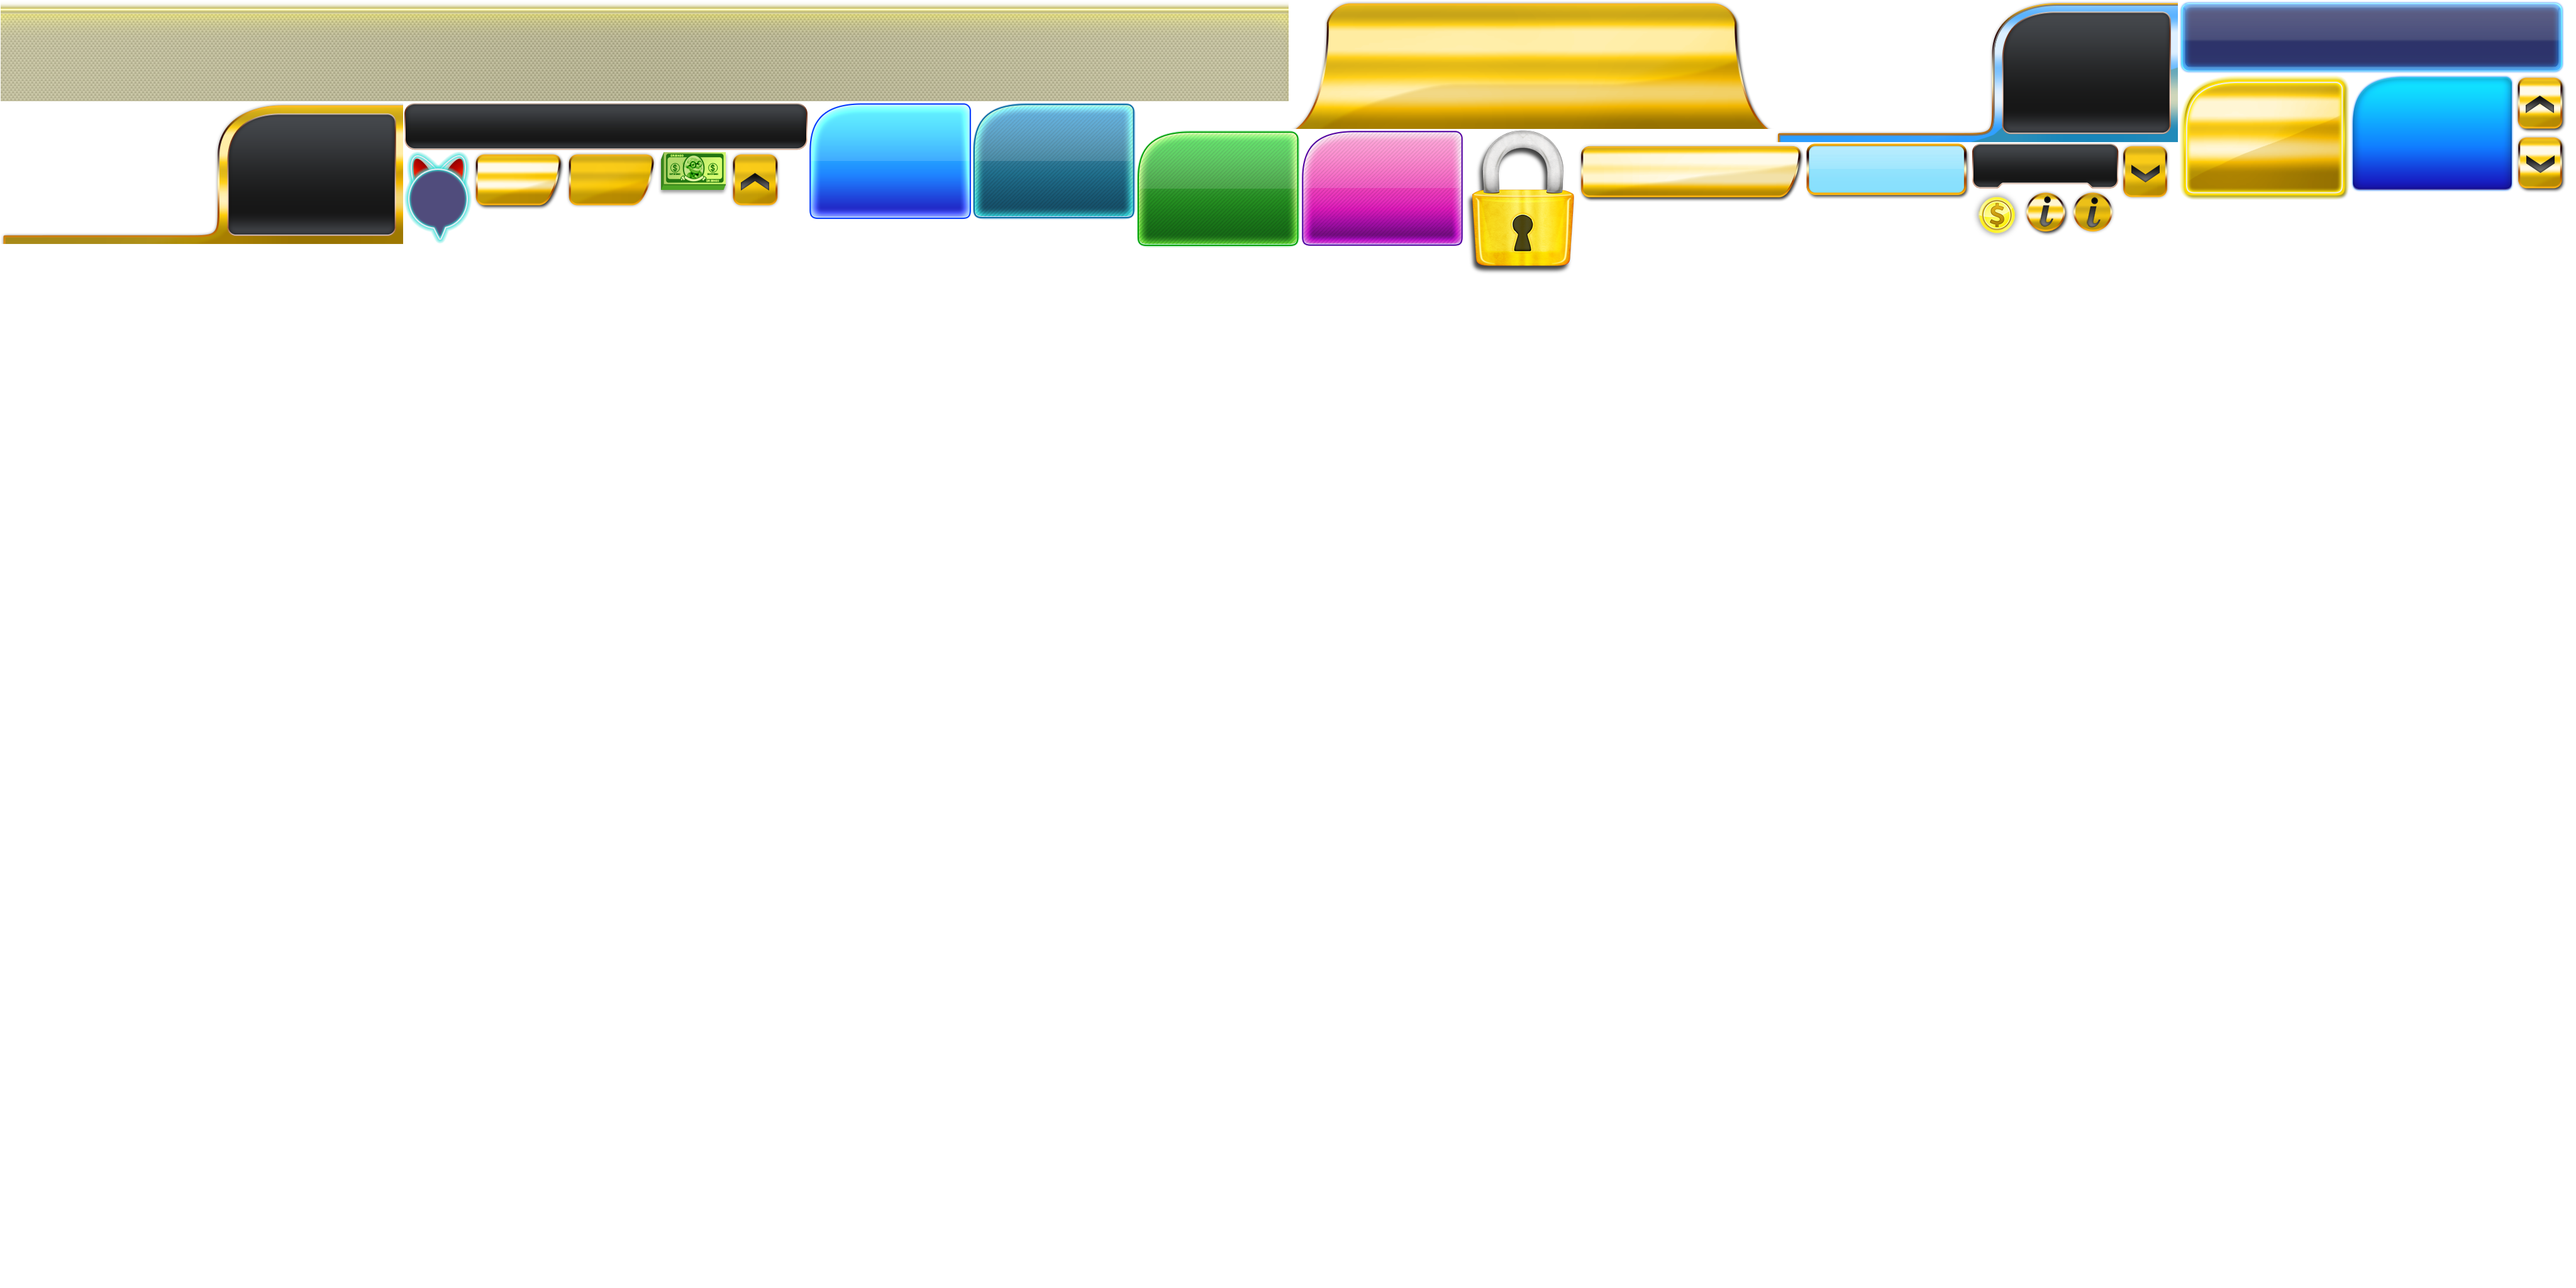
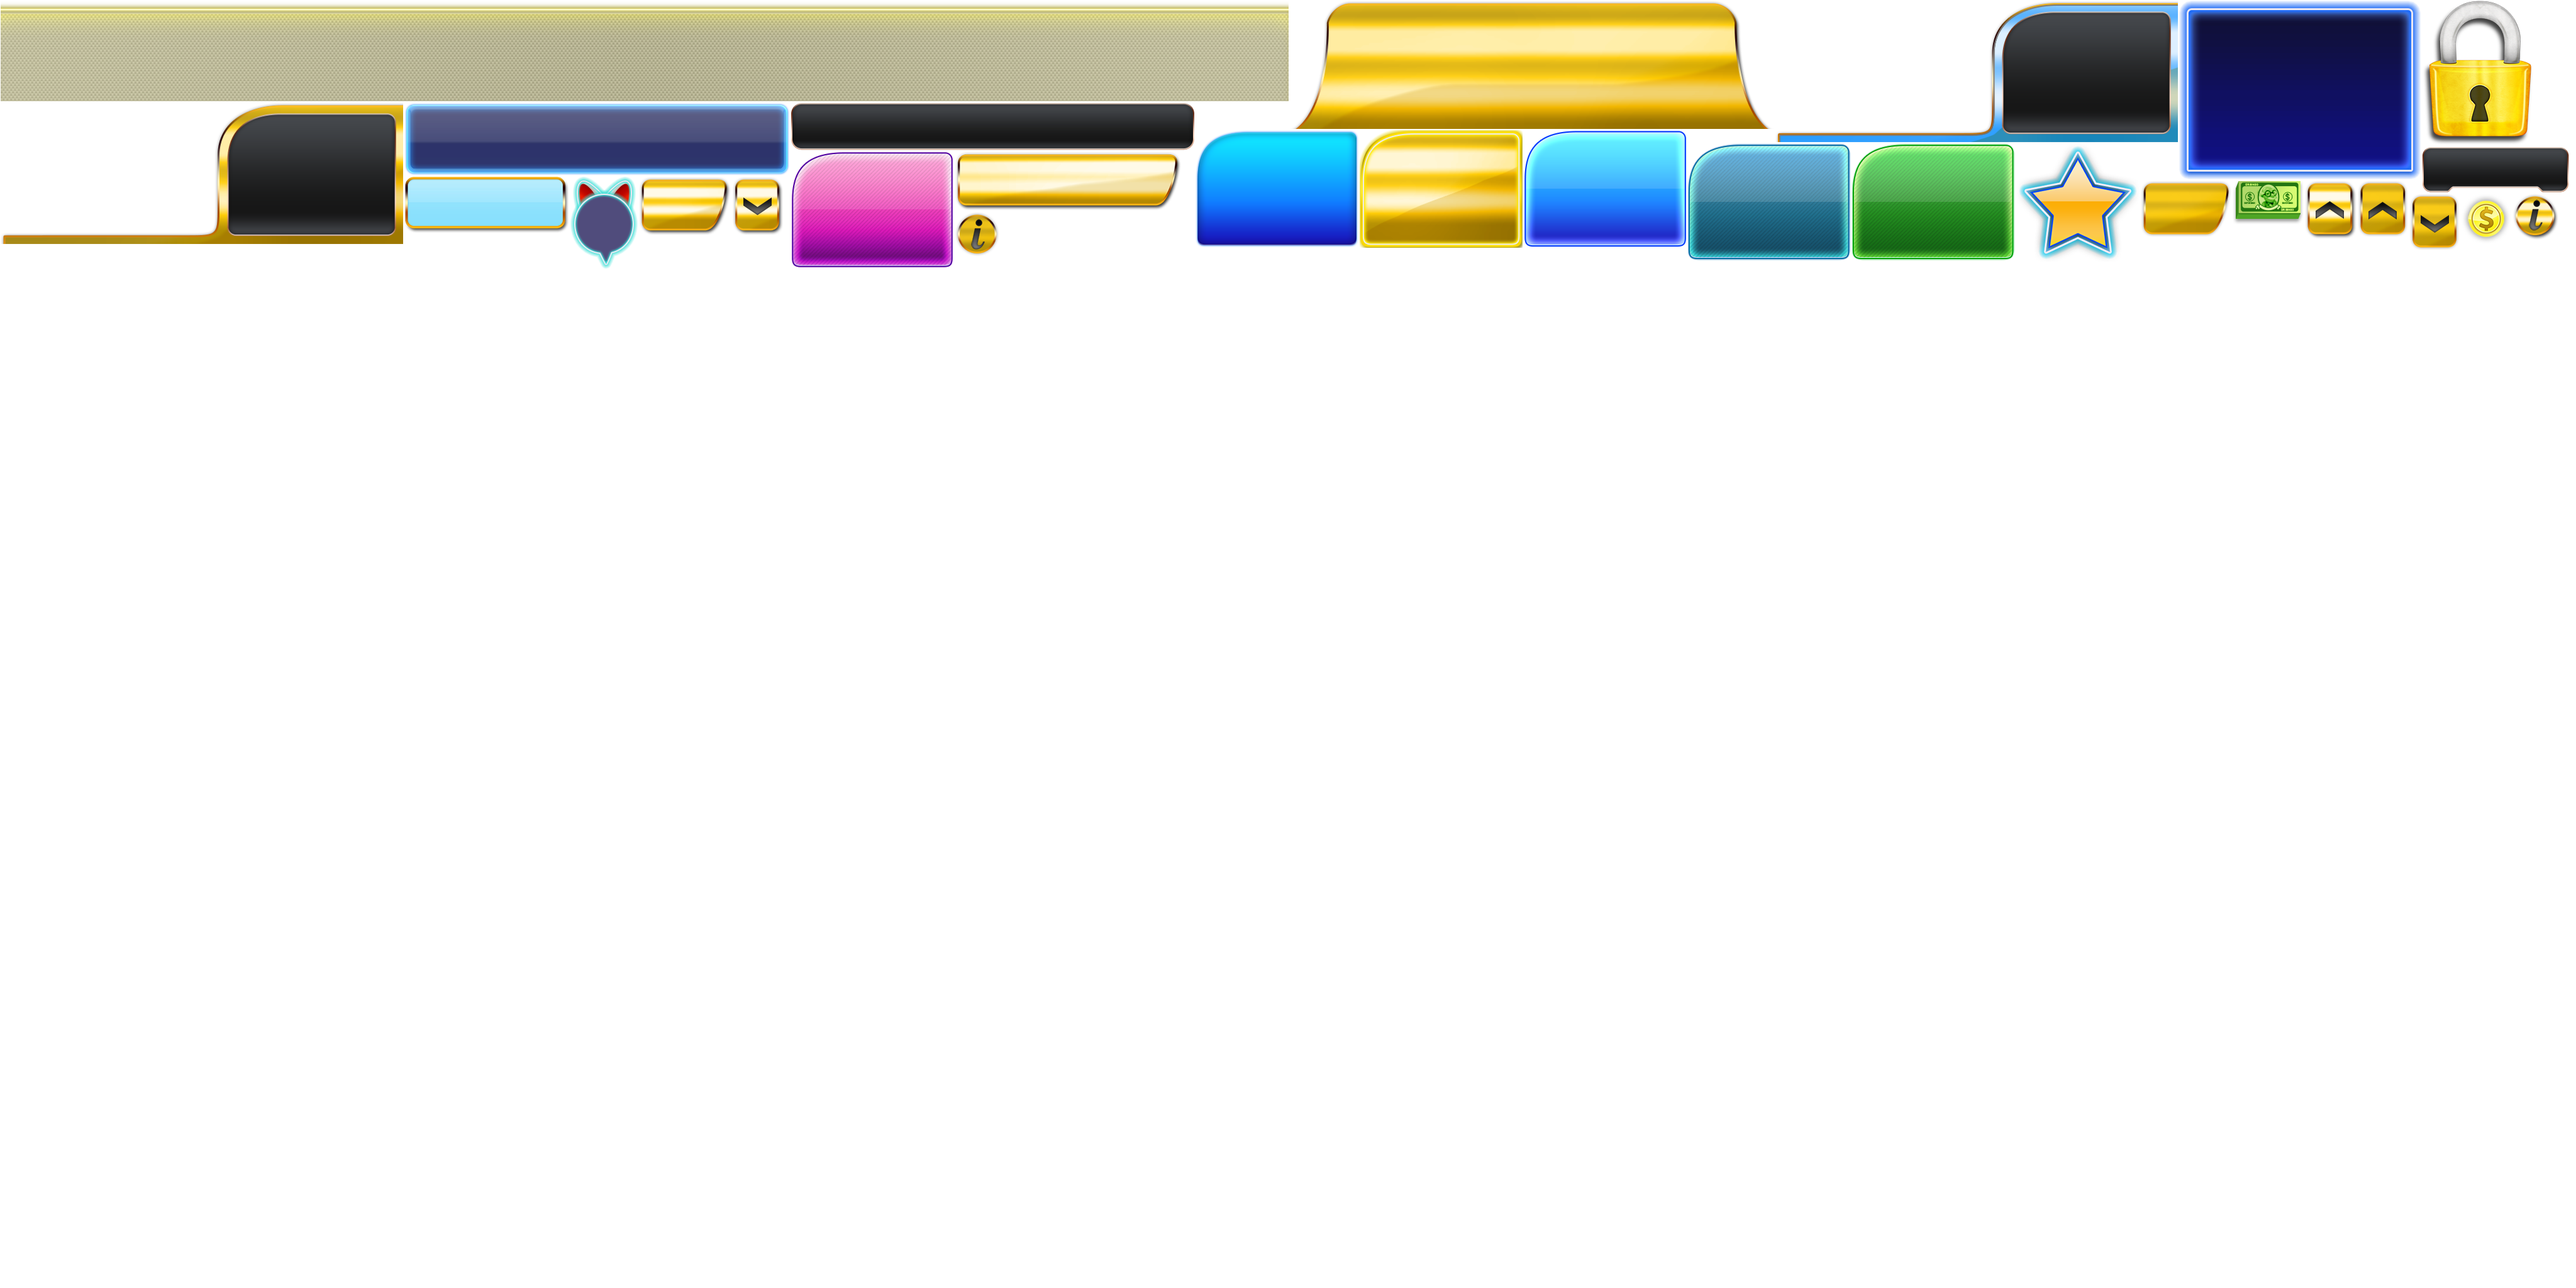
add topbar

Changed region(s): [[0.1562, 0.0, 1.0, 0.2188]]

diff --git a/newMoblie/src/bingoGames/BingoMachine.ts b/newMoblie/src/bingoGames/BingoMachine.ts
@@ -17,6 +17,7 @@ class BingoMachine extends GameUIItem{
 	protected cardArea: egret.DisplayObjectContainer;
 	protected payTableArea: egret.DisplayObjectContainer;
 	protected gameToolBar: BingoGameToolbar;
+	protected topbar: Topbar;
 
 	protected betText: egret.TextField;
 	protected creditText: egret.TextField;
@@ -276,9 +277,13 @@ class BingoMachine extends GameUIItem{
 	protected initToolbar(){
 		this.gameToolBar = new BingoGameToolbar;
 		Com.addObjectAt( this, this.gameToolBar, 0, BingoGameToolbar.toolBarY );
-		this.gameToolBar.scaleX = BingoBackGroundSetting.gameMask.width / 2000;
-		this.gameToolBar.scaleY = BingoBackGroundSetting.gameMask.height / 1125;
 		this.gameToolBar.showTip( "" );
+
+		this.topbar = new Topbar;
+		this.addChild( this.topbar );
+		
+		this.topbar.scaleX = this.gameToolBar.scaleX = BingoBackGroundSetting.gameMask.width / 2000;
+		this.topbar.scaleY = this.gameToolBar.scaleY = BingoBackGroundSetting.gameMask.height / 1125;
 	}
 
 	protected listenToGameToolbarStatus(): void{

diff --git a/newMoblie/src/bingoGames/Topbar.ts b/newMoblie/src/bingoGames/Topbar.ts
@@ -1,0 +1,27 @@
+class Topbar extends egret.DisplayObjectContainer{
+
+	private backToLobbyBtn: TouchDownButton;
+	private bankBtn: TouchDownButton;
+	private menuBtn: TouchDownButton;
+
+	public constructor() {
+		super();
+
+		Com.addBitmapAt( this, "topbar_json.buy_bg", 742, 0 );
+
+		this.backToLobbyBtn = Com.addDownButtonAt( this, "topbar_json.home", "topbar_json.home_press", 0, 14, this.onButtonClick, false );
+		this.menuBtn = Com.addDownButtonAt( this, "topbar_json.hamburger", "topbar_json.hamburger", 1908, 14, this.onButtonClick, false );
+
+		this.bankBtn = Com.addDownButtonAt( this, "topbar_json.buy-btn", "topbar_json.buy-btn", 793, 5, this.onButtonClick, false );
+		let txt: TextLabel = Com.addLabelAt( this, 10, 10, 390, 80, 48 );
+		this.bankBtn.addChild(txt);
+		txt.fontFamily = "Righteous";
+		txt.stroke = 2;
+		txt.strokeColor = 0;
+		txt.setText( MuLang.getText("bank") );
+	}
+
+	private onButtonClick( event: egret.TouchEvent ){
+
+	}
+}
